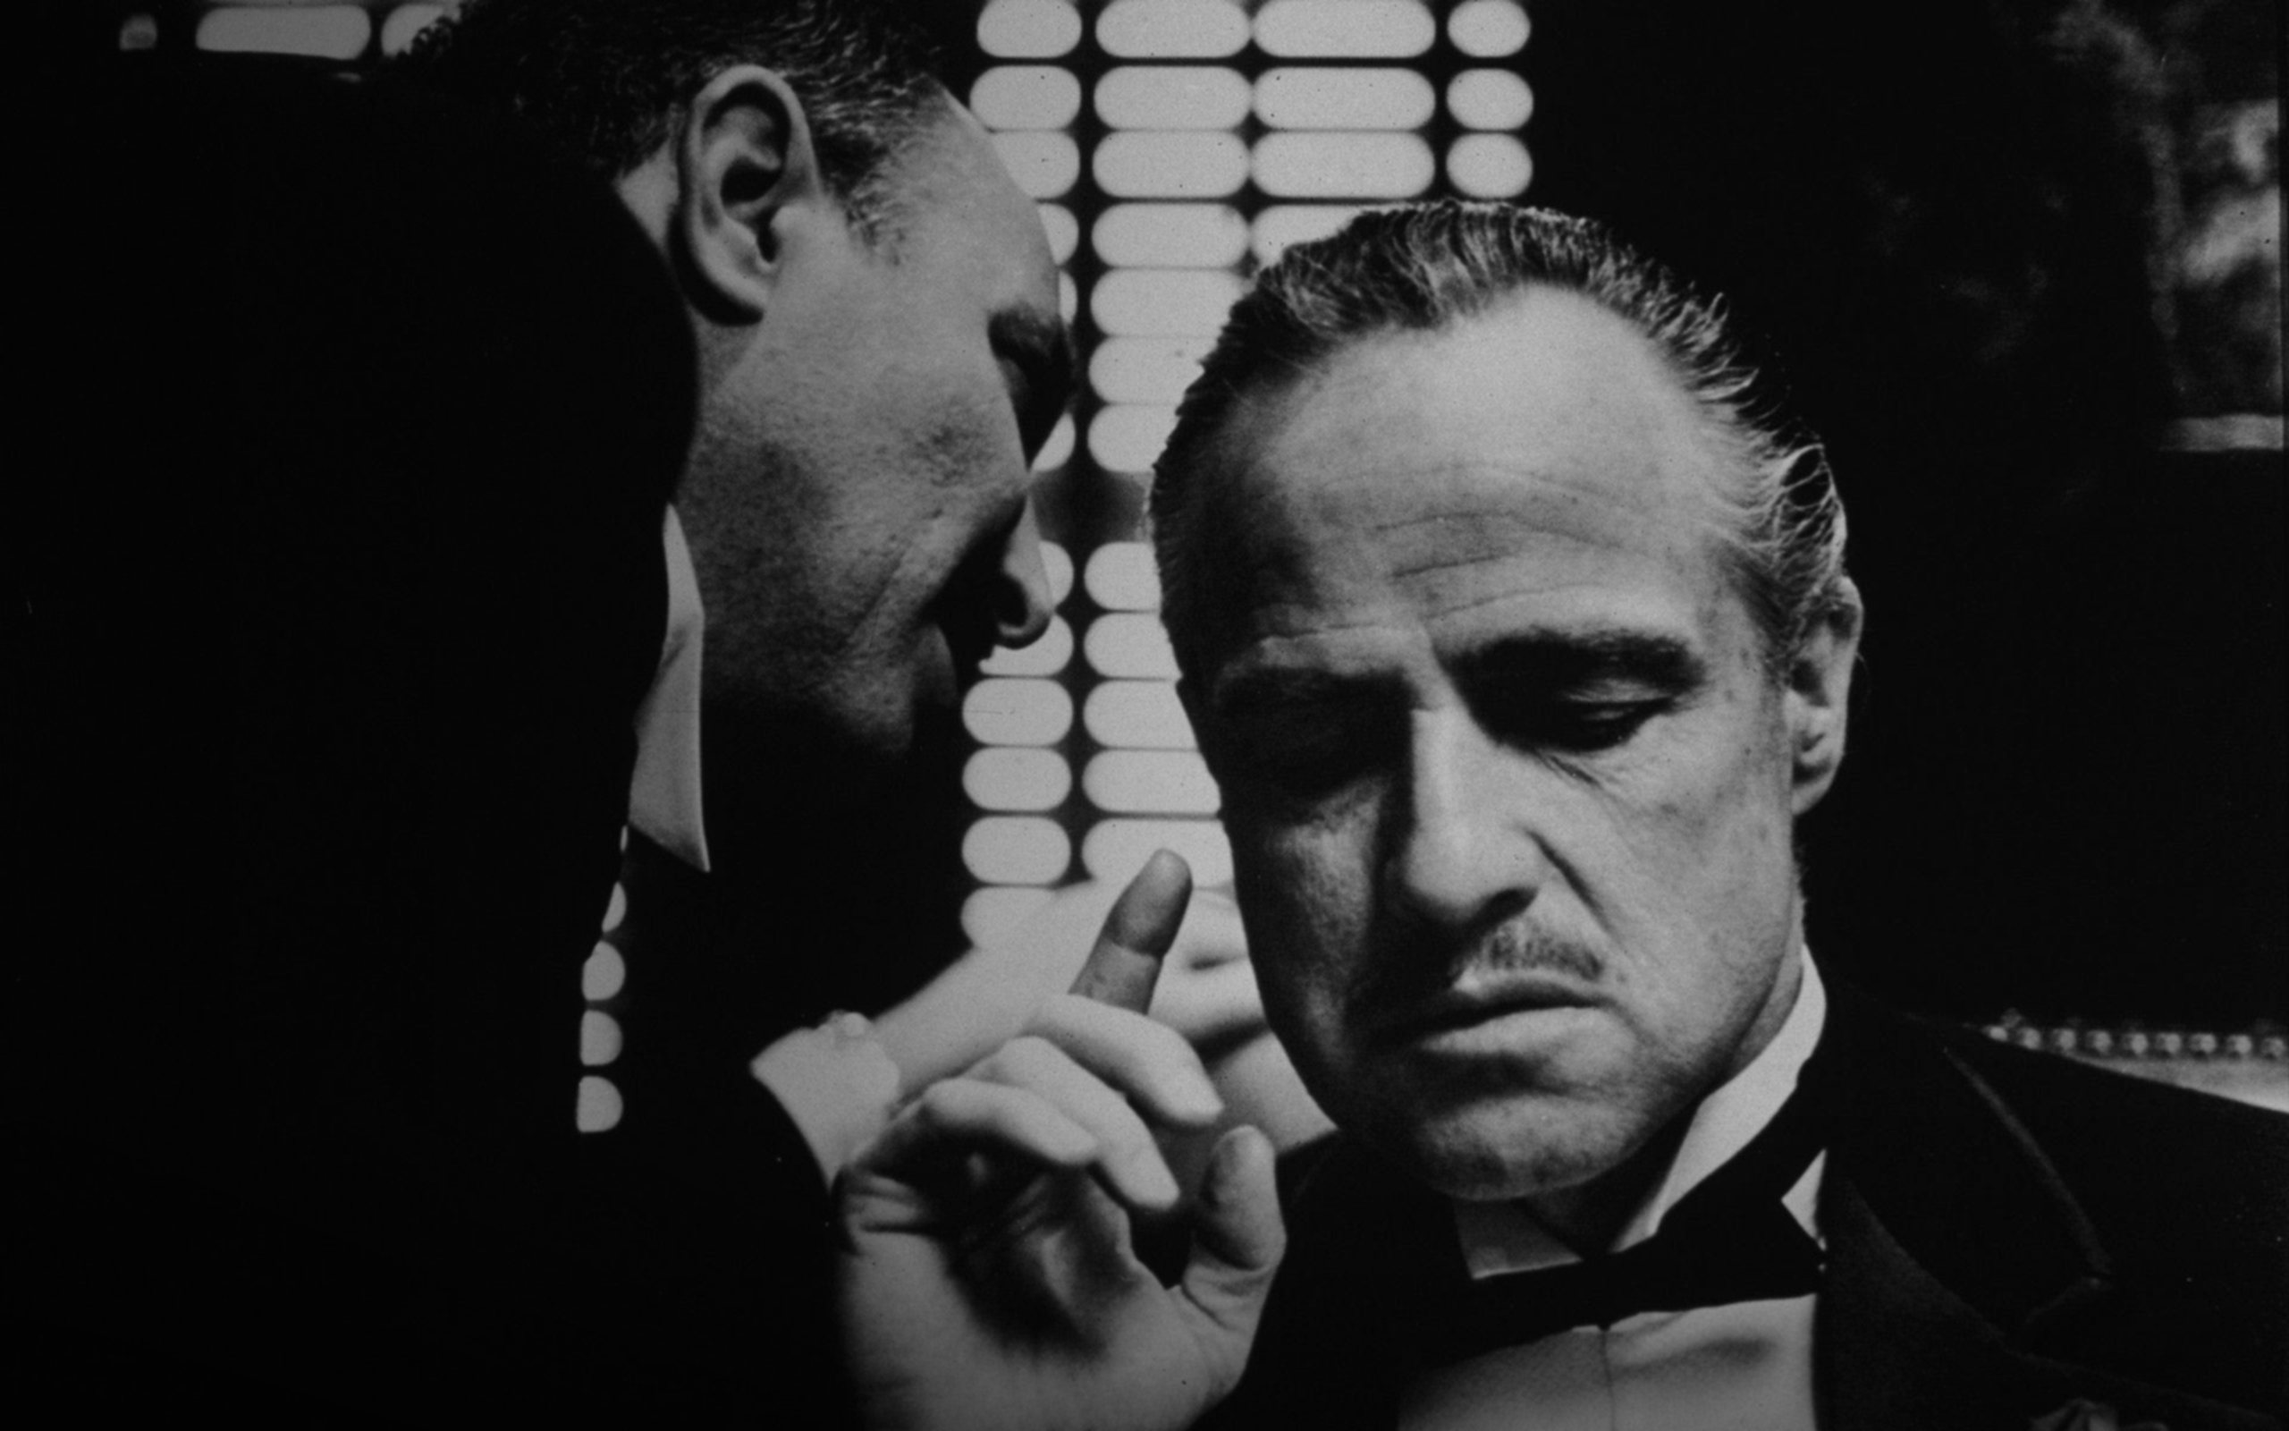
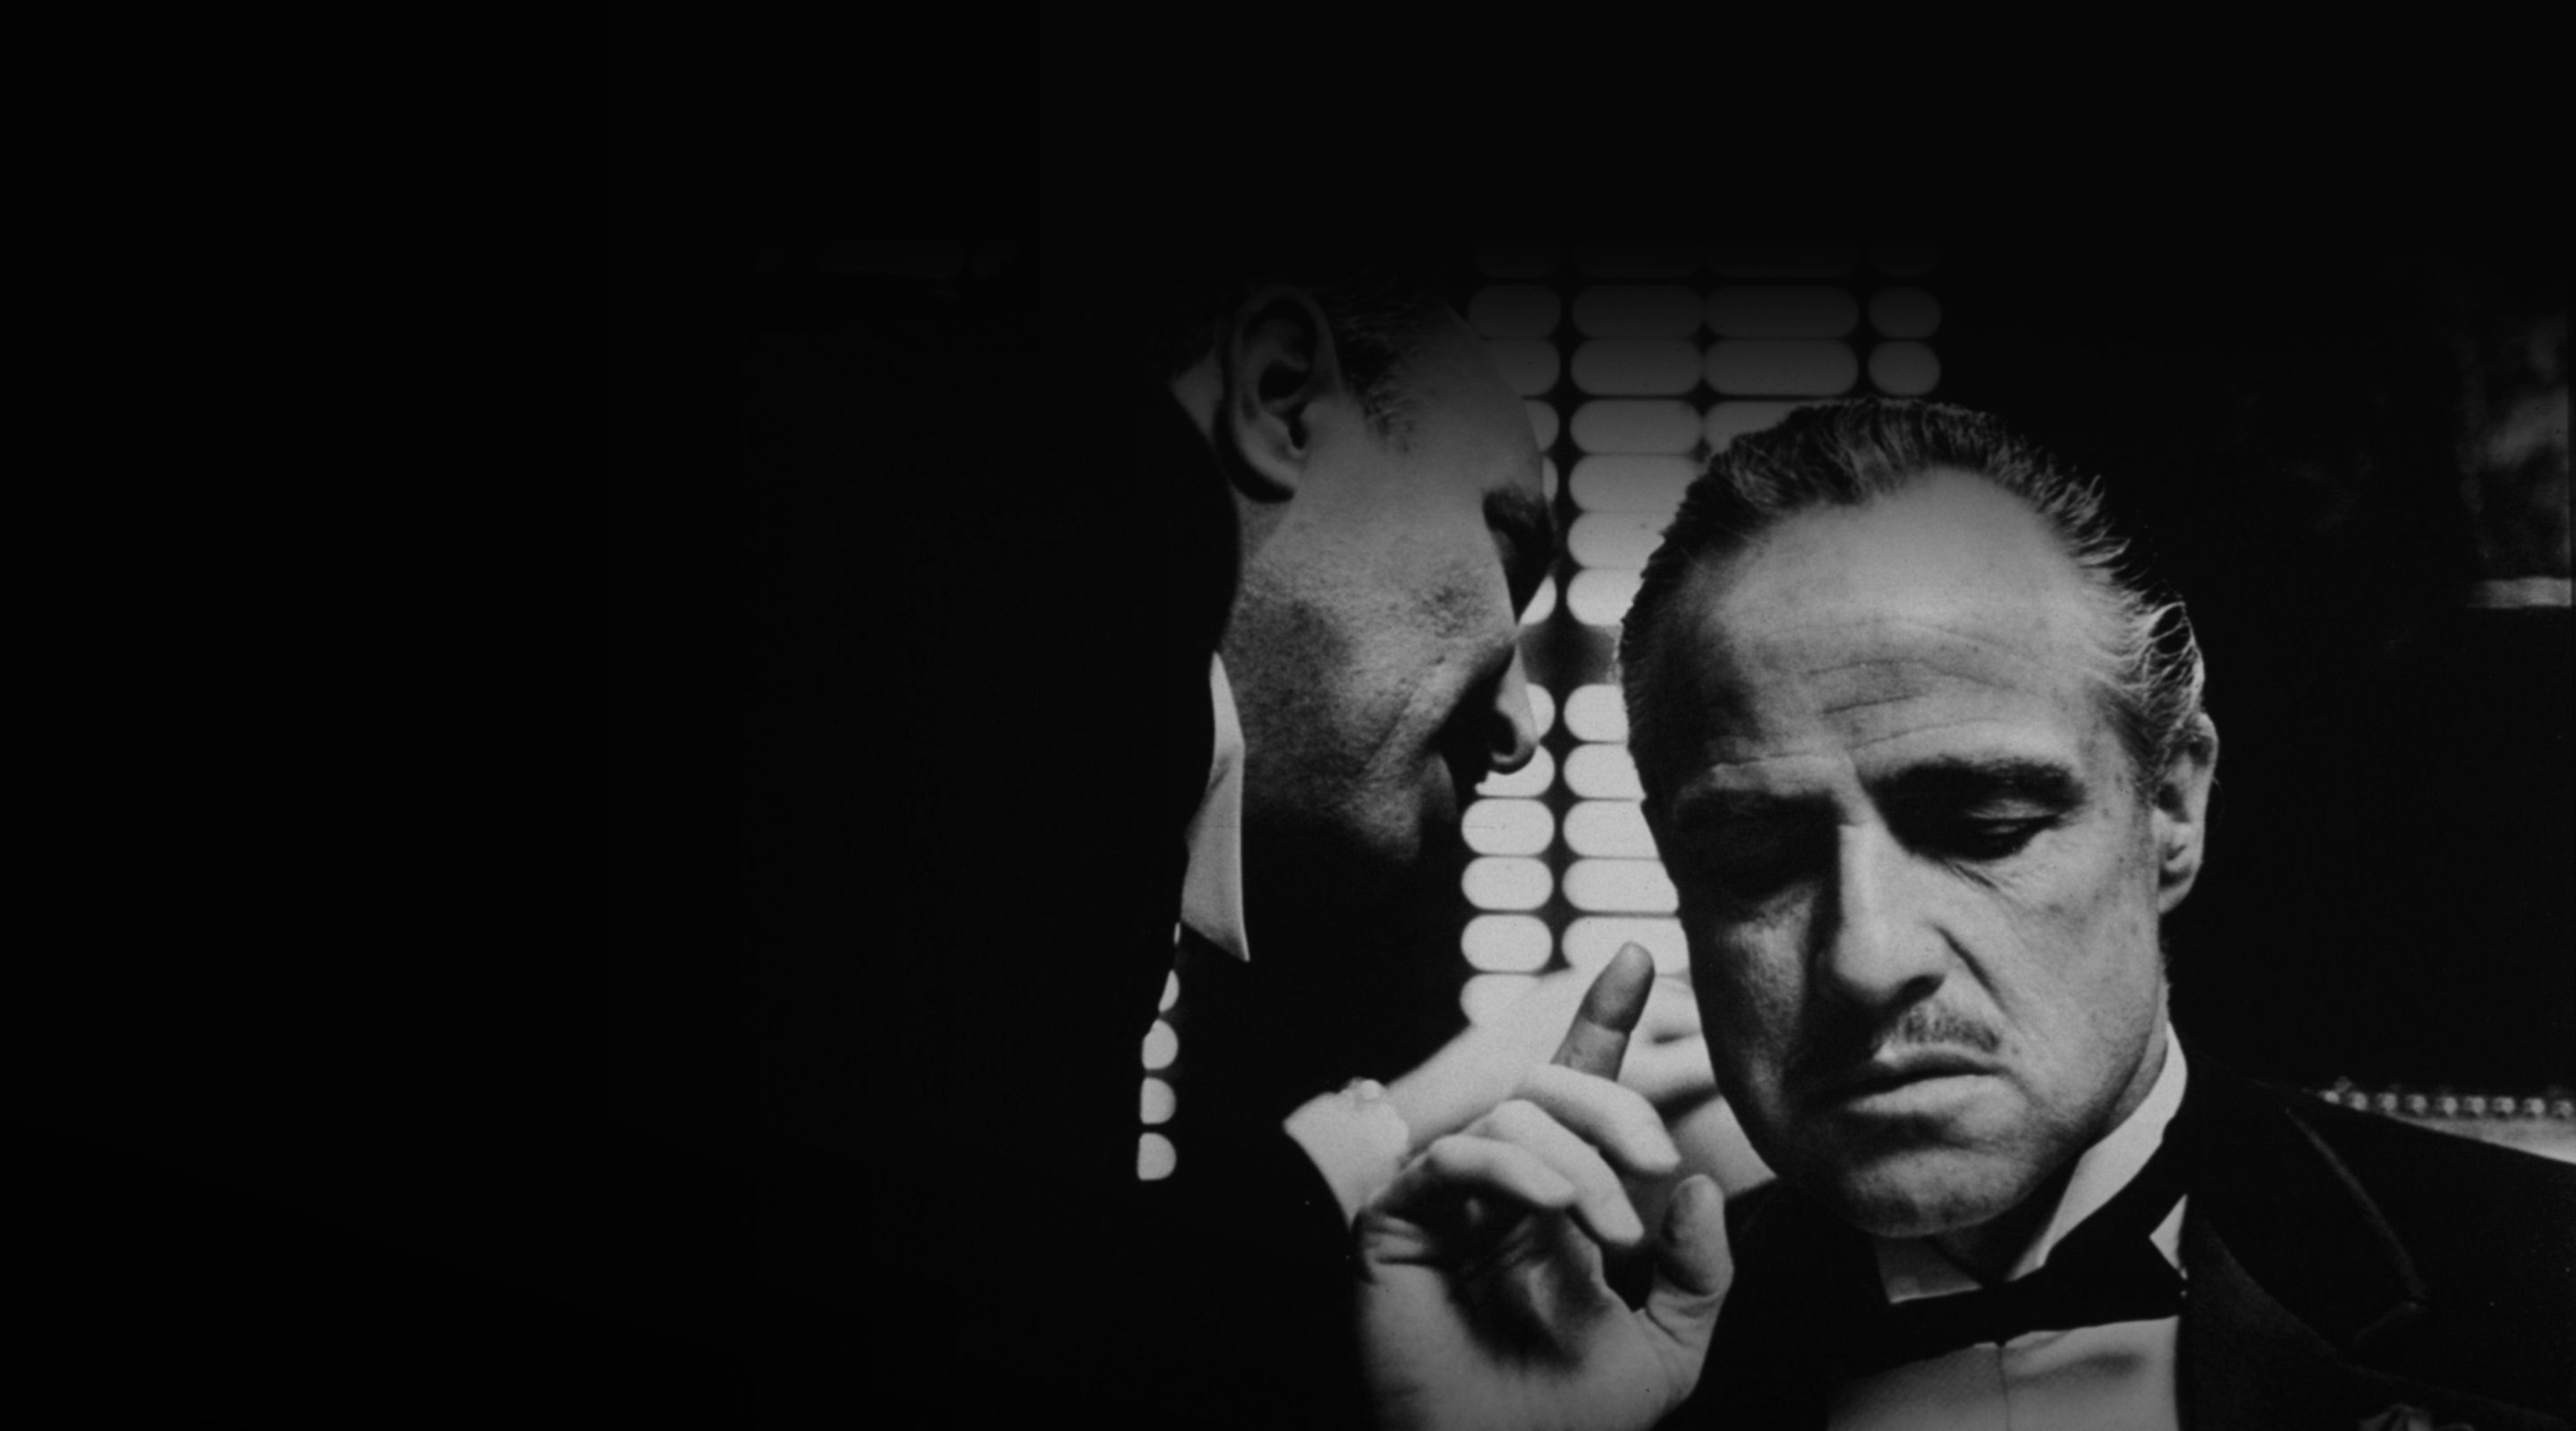
Монте-Карло: фон 3 (ч/б шёпот), дон отдалён

diff --git a/p/2026-11-12-montekarlo-69c98b68/maket/index.html b/p/2026-11-12-montekarlo-69c98b68/maket/index.html
@@ -1,4 +1,4 @@
-<!doctype html><html lang="ru" data-bg="11"><head><meta charset="utf-8"><meta name="viewport" content="width=device-width,initial-scale=1"><meta name="robots" content="noindex">
+<!doctype html><html lang="ru" data-bg="13"><head><meta charset="utf-8"><meta name="viewport" content="width=device-width,initial-scale=1"><meta name="robots" content="noindex">
 <title>Монте-Карло: клуб мафии в Набережных Челнах</title>
 <meta name="description" content="Детские дни рождения, игры классом, взрослые праздники и вечерние игры в мафию в Набережных Челнах">
 <link rel="preconnect" href="https://fonts.googleapis.com"><link rel="preconnect" href="https://fonts.gstatic.com" crossorigin>
@@ -41,7 +41,7 @@ html[data-bg="9"] .hero{background-image:url(img/hero9.jpg);background-position:
 html[data-bg="10"] .hero{background-image:url(img/hero10.jpg);background-position:60% 45%}
 html[data-bg="11"] .hero{background-image:url(img/hero11.jpg);background-position:70% 40%}
 html[data-bg="12"] .hero{background-image:url(img/hero12.jpg);background-position:60% 35%}
-html[data-bg="13"] .hero{background-image:url(img/hero13.jpg);background-position:60% 35%}
+html[data-bg="13"] .hero{background-image:url(img/hero13.jpg);background-position:100% 100%}
 html[data-bg="14"] .hero{background-image:url(img/hero14.jpg);background-position:70% 20%}
 html[data-bg="15"] .hero{background-image:url(img/hero15.jpg);background-position:60% 40%}
 .hero .card{position:absolute;left:var(--pad);bottom:clamp(32px,7vh,80px);width:fit-content;max-width:calc(100% - 2*var(--pad));
